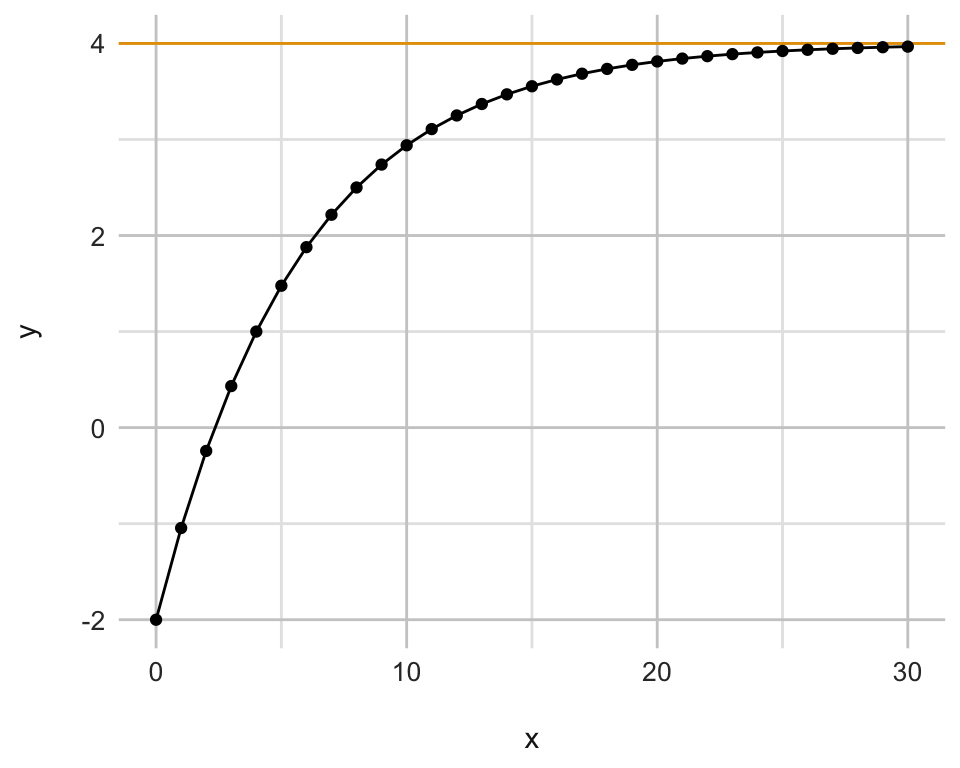
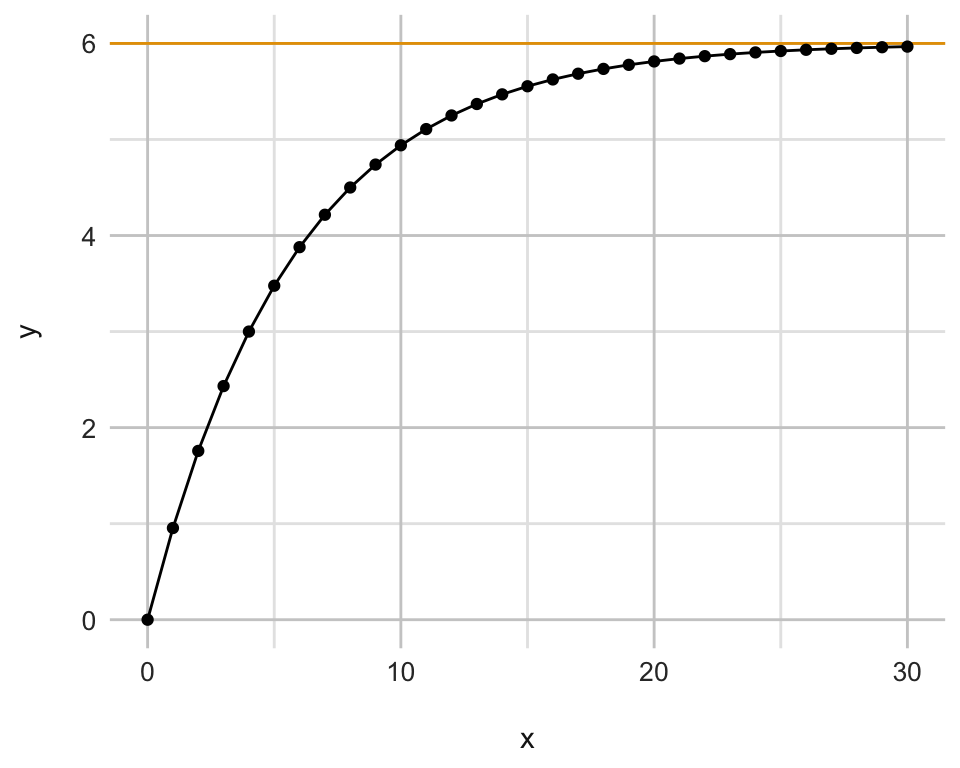
added text

diff --git a/docs/functions-basic.html b/docs/functions-basic.html
@@ -262,6 +262,7 @@ code span.wa { color: #60a0b0; font-weight: bold; font-style: italic; } /* Warni
   <li><a href="#halbwertszeit" id="toc-halbwertszeit" class="nav-link" data-scroll-target="#halbwertszeit"><span class="toc-section-number">9.3.1</span>  Halbwertszeit</a></li>
   <li><a href="#sättigungsfunktion" id="toc-sättigungsfunktion" class="nav-link" data-scroll-target="#sättigungsfunktion"><span class="toc-section-number">9.3.2</span>  Sättigungsfunktion</a></li>
   </ul></li>
+  <li><a href="#quellen" id="toc-quellen" class="nav-link" data-scroll-target="#quellen"><span class="toc-section-number">9.4</span>  Quellen</a></li>
   </ul>
 </nav>
     </div>
@@ -288,7 +289,7 @@ code span.wa { color: #60a0b0; font-weight: bold; font-style: italic; } /* Warni
 <div class="cell">
 
 </div>
-<p><em>Version vom February 24, 2023 um 11:04:45</em></p>
+<p><em>Version vom February 24, 2023 um 11:43:53</em></p>
 <div class="quarto-figure quarto-figure-center">
 <figure class="figure">
 <p><img src="images/caution.png" class="img-fluid figure-img" style="width:50.0%"></p>
@@ -306,11 +307,11 @@ code span.wa { color: #60a0b0; font-weight: bold; font-style: italic; } /* Warni
 </section>
 <section id="lineare-funktion" class="level2" data-number="9.2">
 <h2 data-number="9.2" class="anchored" data-anchor-id="lineare-funktion"><span class="header-section-number">9.2</span> Lineare Funktion</h2>
-<p>Wiederholen wir einmal die klassische lineare Funktion. Die lineare Funktion wird durch zwei Parameter bestimmt. Einmal die Steigung <span class="math inline">\(m\)</span> sowie der y-Achsenabschnitt <span class="math inline">\(b\)</span>. Wenn also <span class="math inline">\(x\)</span> um 1 ansteigt, dann ändert sich <span class="math inline">\(y\)</span> um den Wert von <span class="math inline">\(m\)</span>. Die Gerade schneidet die <span class="math inline">\(y\)</span>-Achse an dem <span class="math inline">\(y\)</span>-Wert von <span class="math inline">\(b\)</span>.</p>
+<p>Wiederholen wir einmal die klassische lineare Funktion. Die lineare Funktion wird durch zwei Parameter bestimmt. Einmal die Steigung <span class="math inline">\(m\)</span> sowie der y-Achsenabschnitt <span class="math inline">\(b\)</span>. Wenn also <span class="math inline">\(x\)</span> um 1 ansteigt, dann ändert sich <span class="math inline">\(y\)</span> um den Wert von <span class="math inline">\(m\)</span>. Die Gerade schneidet die <span class="math inline">\(y\)</span>-Achse an dem <span class="math inline">\(y\)</span>-Wert von <span class="math inline">\(b_0\)</span>.</p>
 <p><span class="math display">\[
-f(x) = mx + b
+f(x) = mx + b_0
 \]</span></p>
-<p>In der <a href="#fig-lin-simple">Abbildung&nbsp;<span>9.1</span></a> sehen wir die lineare Funktion <span class="math inline">\(f(x) = 1.5 \cdot x + 4\)</span> einmal als Gerade dargestellt. Hier wird nochmal schnell klar, was die Parameter der Geradengleichung aussagen. Die Gerade passiert die <span class="math inline">\(y\)</span>-Achse bei einem Wert von 5. Wenn wir von <span class="math inline">\(x=0\)</span> zu <span class="math inline">\(x=5\)</span> gehen, dann steigt die Gerade von <span class="math inline">\(y = 5\)</span> auf <span class="math inline">\(y = 12.5\)</span>. Damit ist dann die Steigung <span class="math inline">\(m = \tfrac{12.5-5}{5} = 1.5\)</span>. Eigentlich realtiv einfach und <em>straight forward</em>.</p>
+<p>In der <a href="#fig-lin-simple">Abbildung&nbsp;<span>9.1</span></a> sehen wir die lineare Funktion <span class="math inline">\(f(x) = 1.5 \cdot x + 5\)</span> einmal als Gerade dargestellt. Hier wird nochmal schnell klar, was die Parameter der Geradengleichung aussagen. Die Gerade passiert die <span class="math inline">\(y\)</span>-Achse bei einem Wert von 5. Wenn wir von <span class="math inline">\(x=0\)</span> zu <span class="math inline">\(x=5\)</span> gehen, dann steigt die Gerade von <span class="math inline">\(y = 5\)</span> auf <span class="math inline">\(y = 12.5\)</span>. Damit ist dann die Steigung <span class="math inline">\(m = \tfrac{12.5-5}{5} = 1.5\)</span>. Eigentlich realtiv einfach und <em>straight forward</em>.</p>
 <div class="cell" data-layout-align="center">
 <div class="sourceCode cell-code" id="cb2"><pre class="sourceCode r code-with-copy"><code class="sourceCode r"><span id="cb2-1"><a href="#cb2-1" aria-hidden="true" tabindex="-1"></a><span class="fu">tibble</span>(<span class="at">x =</span> <span class="dv">0</span><span class="sc">:</span><span class="dv">10</span>,</span>
 <span id="cb2-2"><a href="#cb2-2" aria-hidden="true" tabindex="-1"></a>       <span class="at">y =</span> <span class="fl">1.5</span> <span class="sc">*</span> x <span class="sc">+</span> <span class="dv">5</span>) <span class="sc">%&gt;%</span> </span>
@@ -323,7 +324,7 @@ f(x) = mx + b
 <div id="fig-lin-simple" class="quarto-figure quarto-figure-center anchored">
 <figure class="figure">
 <p><img src="functions-basic_files/figure-html/fig-lin-simple-1.png" class="img-fluid figure-img" width="480"></p>
-<p></p><figcaption class="figure-caption">Abbildung&nbsp;9.1— Eine einfache lineare Funktion mit der Steigung <span class="math inline">\(m = 1.5\)</span> und dem y-Achsenabschnitt <span class="math inline">\(b = 5\)</span>.</figcaption><p></p>
+<p></p><figcaption class="figure-caption">Abbildung&nbsp;9.1— Eine einfache lineare Funktion mit der Steigung <span class="math inline">\(m = 1.5\)</span> und dem y-Achsenabschnitt <span class="math inline">\(b_0 = 5\)</span>.</figcaption><p></p>
 </figure>
 </div>
 </div>
@@ -331,12 +332,13 @@ f(x) = mx + b
 </section>
 <section id="exponentialfunktion" class="level2" data-number="9.3">
 <h2 data-number="9.3" class="anchored" data-anchor-id="exponentialfunktion"><span class="header-section-number">9.3</span> Exponentialfunktion</h2>
-<p>Exponentialfunktion</p>
-<p>https://www.statforbiology.com/nonlinearregression/usefulequations#michaelis-menten_equation</p>
-<p>https://en.wikipedia.org/wiki/Cubic_function</p>
-<p>https://en.wikipedia.org/wiki/Polynomial</p>
-<p>https://de.wikipedia.org/wiki/Exponentielles_Wachstum</p>
-<p>https://www.rhetos.de/html/lex/exponentielle_saettigungsfunktion.htm</p>
+<p>Die Exponentialfunktion ist eine sehr wichtige biologische Funktion. Wir können mit der Exponentialfunktion zum Beispiel Wachstum oder aber Zerfall. Deshalb hier einmal die grundlegende Formel für die Exponentialfunktion.</p>
+<p><span class="math display">\[
+f(x) = b_0 + a \cdot b_1^{c\cdot x + d}
+\]</span> Wir haben hier wieder den <span class="math inline">\(y\)</span>-Achsenabschnitt <span class="math inline">\(b_0\)</span>. Dann einen Multiplikator <span class="math inline">\(a\)</span> für die eigentliche Exponentialfunktion.</p>
+<p><span class="math display">\[
+f(x) = 2^x
+\]</span></p>
 <div class="cell">
 <div class="sourceCode cell-code" id="cb3"><pre class="sourceCode r code-with-copy"><code class="sourceCode r"><span id="cb3-1"><a href="#cb3-1" aria-hidden="true" tabindex="-1"></a>exp_tbl <span class="ot">&lt;-</span> <span class="fu">tibble</span>(<span class="at">x =</span> <span class="dv">0</span><span class="sc">:</span><span class="dv">10</span>,</span>
 <span id="cb3-2"><a href="#cb3-2" aria-hidden="true" tabindex="-1"></a>                  <span class="at">y =</span> <span class="dv">2</span><span class="sc">^</span>x)</span>
@@ -358,6 +360,17 @@ f(x) = mx + b
 11    10  1024</code></pre>
 </div>
 </div>
+<p><span class="math inline">\(\log\)</span> als Umkehrfunktion</p>
+<p><span class="math display">\[
+8 = 2^x
+\]</span> <span class="math display">\[
+\log_2(8) = 3
+\]</span></p>
+<p><span class="math display">\[
+\log_a(b) = \cfrac{\log(b)}{\log(a)}
+\]</span> <span class="math display">\[
+\log_{12}(50) = \cfrac{\log(50)}{\log(12)} = \cfrac{3.91}{2.48} = 1.58
+\]</span></p>
 <div class="cell" data-layout-align="center">
 <div class="sourceCode cell-code" id="cb5"><pre class="sourceCode r code-with-copy"><code class="sourceCode r"><span id="cb5-1"><a href="#cb5-1" aria-hidden="true" tabindex="-1"></a>exp_tbl <span class="sc">%&gt;%</span> </span>
 <span id="cb5-2"><a href="#cb5-2" aria-hidden="true" tabindex="-1"></a>  <span class="fu">ggplot</span>(<span class="fu">aes</span>(x, y)) <span class="sc">+</span></span>
@@ -447,16 +460,40 @@ N(t) = N_0 \cdot \cfrac{1}{2}^{\cfrac{t}{t_{1/2}}}
 <section id="sättigungsfunktion" class="level3" data-number="9.3.2">
 <h3 data-number="9.3.2" class="anchored" data-anchor-id="sättigungsfunktion"><span class="header-section-number">9.3.2</span> Sättigungsfunktion</h3>
 <p><span class="math display">\[
-f(x) = A - a \cdot b^{-c \cdot x + d}
+f(x) = b_0 - a \cdot b_1^{-c \cdot x + d}
+\]</span> <span class="math display">\[
+f(x) = 6 - 1.5 \cdot 2^{-\frac{1}{4}\cdot x + 2}
 \]</span></p>
-<div class="cell" data-layout-align="center">
+<div class="cell">
 <div class="sourceCode cell-code" id="cb12"><pre class="sourceCode r code-with-copy"><code class="sourceCode r"><span id="cb12-1"><a href="#cb12-1" aria-hidden="true" tabindex="-1"></a><span class="fu">tibble</span>(<span class="at">x =</span> <span class="dv">0</span><span class="sc">:</span><span class="dv">30</span>,</span>
-<span id="cb12-2"><a href="#cb12-2" aria-hidden="true" tabindex="-1"></a>       <span class="at">y =</span> <span class="dv">4</span> <span class="sc">-</span> <span class="fl">1.5</span> <span class="sc">*</span> <span class="dv">2</span><span class="sc">^</span>(<span class="sc">-</span><span class="dv">1</span><span class="sc">/</span><span class="dv">4</span><span class="sc">*</span>x <span class="sc">+</span> <span class="dv">2</span>)) <span class="sc">%&gt;%</span> </span>
-<span id="cb12-3"><a href="#cb12-3" aria-hidden="true" tabindex="-1"></a>  <span class="fu">ggplot</span>(<span class="fu">aes</span>(x, y)) <span class="sc">+</span></span>
-<span id="cb12-4"><a href="#cb12-4" aria-hidden="true" tabindex="-1"></a>  <span class="fu">theme_radar</span>() <span class="sc">+</span></span>
-<span id="cb12-5"><a href="#cb12-5" aria-hidden="true" tabindex="-1"></a>  <span class="fu">geom_hline</span>(<span class="at">yintercept =</span> <span class="dv">4</span>, <span class="at">color =</span> cbbPalette[<span class="dv">2</span>]) <span class="sc">+</span></span>
-<span id="cb12-6"><a href="#cb12-6" aria-hidden="true" tabindex="-1"></a>  <span class="fu">geom_path</span>() <span class="sc">+</span></span>
-<span id="cb12-7"><a href="#cb12-7" aria-hidden="true" tabindex="-1"></a>  <span class="fu">geom_point</span>()</span></code><button title="In die Zwischenablage kopieren" class="code-copy-button"><i class="bi"></i></button></pre></div>
+<span id="cb12-2"><a href="#cb12-2" aria-hidden="true" tabindex="-1"></a>       <span class="at">y =</span> <span class="dv">6</span> <span class="sc">-</span> <span class="fl">1.5</span> <span class="sc">*</span> <span class="dv">2</span><span class="sc">^</span>(<span class="sc">-</span><span class="dv">1</span><span class="sc">/</span><span class="dv">4</span><span class="sc">*</span>x <span class="sc">+</span> <span class="dv">2</span>),</span>
+<span id="cb12-3"><a href="#cb12-3" aria-hidden="true" tabindex="-1"></a>       <span class="st">"- 1.5 * 2^(-1/4*x + 2)"</span> <span class="ot">=</span> <span class="sc">-</span> <span class="fl">1.5</span> <span class="sc">*</span> <span class="dv">2</span><span class="sc">^</span>(<span class="sc">-</span><span class="dv">1</span><span class="sc">/</span><span class="dv">4</span><span class="sc">*</span>x <span class="sc">+</span> <span class="dv">2</span>),</span>
+<span id="cb12-4"><a href="#cb12-4" aria-hidden="true" tabindex="-1"></a>       <span class="st">"2^(-1/4*x + 2)"</span> <span class="ot">=</span> <span class="dv">2</span><span class="sc">^</span>(<span class="sc">-</span><span class="dv">1</span><span class="sc">/</span><span class="dv">4</span><span class="sc">*</span>x <span class="sc">+</span> <span class="dv">2</span>))</span></code><button title="In die Zwischenablage kopieren" class="code-copy-button"><i class="bi"></i></button></pre></div>
+<div class="cell-output cell-output-stdout">
+<pre><code># A tibble: 31 × 4
+       x     y `- 1.5 * 2^(-1/4*x + 2)` `2^(-1/4*x + 2)`
+   &lt;int&gt; &lt;dbl&gt;                    &lt;dbl&gt;            &lt;dbl&gt;
+ 1     0 0                        -6               4    
+ 2     1 0.955                    -5.05            3.36 
+ 3     2 1.76                     -4.24            2.83 
+ 4     3 2.43                     -3.57            2.38 
+ 5     4 3                        -3               2    
+ 6     5 3.48                     -2.52            1.68 
+ 7     6 3.88                     -2.12            1.41 
+ 8     7 4.22                     -1.78            1.19 
+ 9     8 4.5                      -1.5             1    
+10     9 4.74                     -1.26            0.841
+# … with 21 more rows</code></pre>
+</div>
+</div>
+<div class="cell" data-layout-align="center">
+<div class="sourceCode cell-code" id="cb14"><pre class="sourceCode r code-with-copy"><code class="sourceCode r"><span id="cb14-1"><a href="#cb14-1" aria-hidden="true" tabindex="-1"></a><span class="fu">tibble</span>(<span class="at">x =</span> <span class="dv">0</span><span class="sc">:</span><span class="dv">30</span>,</span>
+<span id="cb14-2"><a href="#cb14-2" aria-hidden="true" tabindex="-1"></a>       <span class="at">y =</span> <span class="dv">6</span> <span class="sc">-</span> <span class="fl">1.5</span> <span class="sc">*</span> <span class="dv">2</span><span class="sc">^</span>(<span class="sc">-</span><span class="dv">1</span><span class="sc">/</span><span class="dv">4</span><span class="sc">*</span>x <span class="sc">+</span> <span class="dv">2</span>)) <span class="sc">%&gt;%</span> </span>
+<span id="cb14-3"><a href="#cb14-3" aria-hidden="true" tabindex="-1"></a>  <span class="fu">ggplot</span>(<span class="fu">aes</span>(x, y)) <span class="sc">+</span></span>
+<span id="cb14-4"><a href="#cb14-4" aria-hidden="true" tabindex="-1"></a>  <span class="fu">theme_radar</span>() <span class="sc">+</span></span>
+<span id="cb14-5"><a href="#cb14-5" aria-hidden="true" tabindex="-1"></a>  <span class="fu">geom_hline</span>(<span class="at">yintercept =</span> <span class="dv">6</span>, <span class="at">color =</span> cbbPalette[<span class="dv">2</span>]) <span class="sc">+</span></span>
+<span id="cb14-6"><a href="#cb14-6" aria-hidden="true" tabindex="-1"></a>  <span class="fu">geom_path</span>() <span class="sc">+</span></span>
+<span id="cb14-7"><a href="#cb14-7" aria-hidden="true" tabindex="-1"></a>  <span class="fu">geom_point</span>()</span></code><button title="In die Zwischenablage kopieren" class="code-copy-button"><i class="bi"></i></button></pre></div>
 <div class="cell-output-display">
 <div id="fig-exp-satt" class="quarto-figure quarto-figure-center anchored">
 <figure class="figure">
@@ -466,9 +503,17 @@ f(x) = A - a \cdot b^{-c \cdot x + d}
 </div>
 </div>
 </div>
-
-
 </section>
+</section>
+<section id="quellen" class="level2" data-number="9.4">
+<h2 data-number="9.4" class="anchored" data-anchor-id="quellen"><span class="header-section-number">9.4</span> Quellen</h2>
+<p>https://www.statforbiology.com/nonlinearregression/usefulequations#michaelis-menten_equation</p>
+<p>https://en.wikipedia.org/wiki/Cubic_function</p>
+<p>https://en.wikipedia.org/wiki/Polynomial</p>
+<p>https://de.wikipedia.org/wiki/Exponentielles_Wachstum</p>
+<p>https://www.rhetos.de/html/lex/exponentielle_saettigungsfunktion.htm</p>
+
+
 </section>
 
 </main> <!-- /main -->
